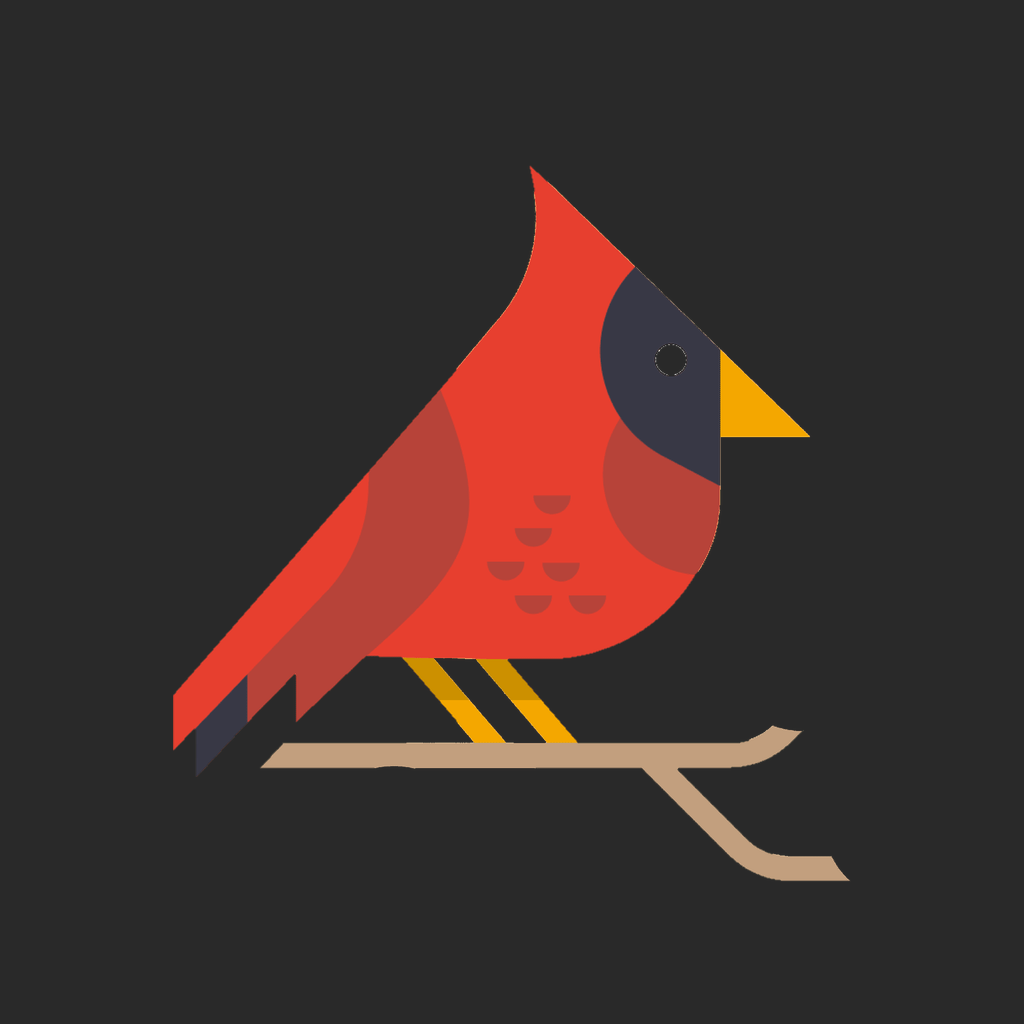
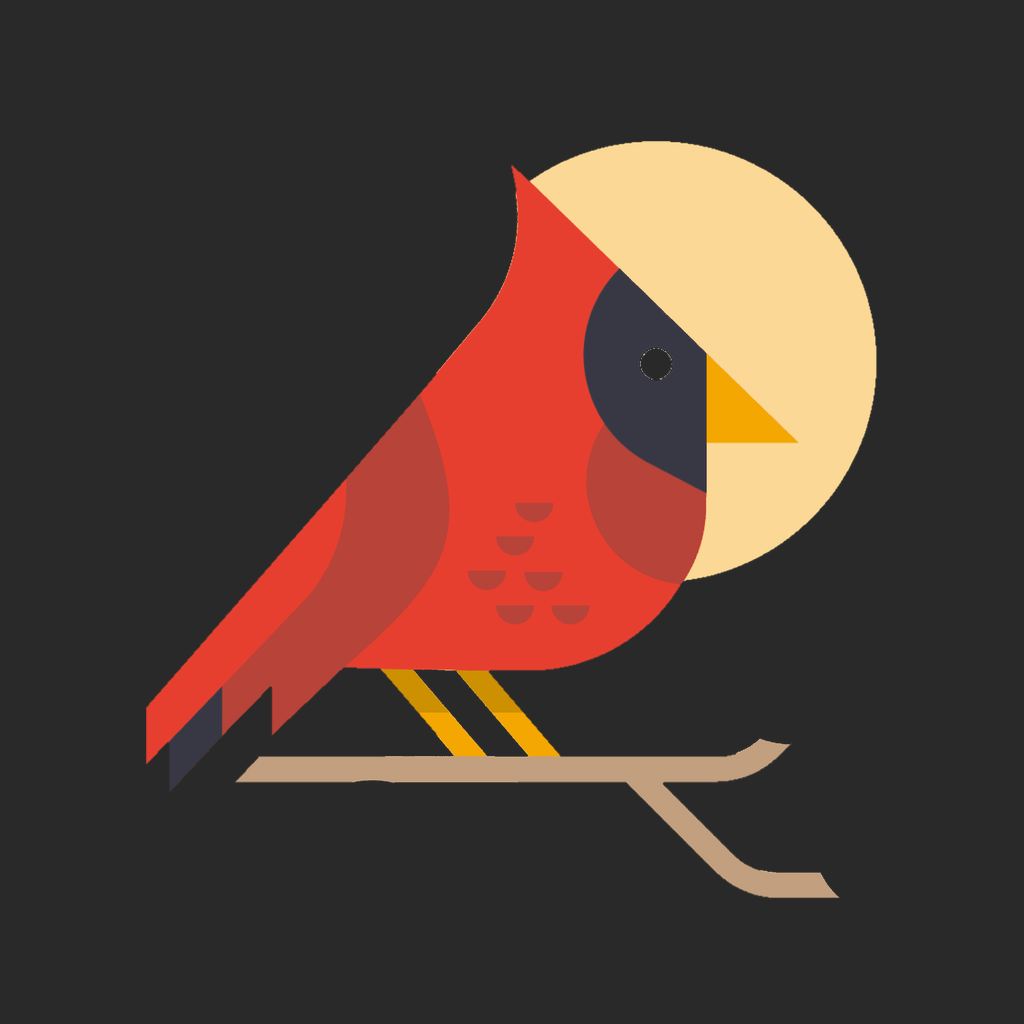
fix: put the sun back behind the cardinal's head
Without the sun the crest stood alone against the paper and read as a spike. The disc from the original illustration sits behind the head again; the leaves and blossoms stay out, so small sizes remain clear.

Changed region(s): [[0.125, 0.125, 0.875, 0.875]]

diff --git a/AGENTS.md b/AGENTS.md
@@ -148,7 +148,7 @@ string is the only breadcrumb the maintainer has when triaging.
 - **设计参考**: UI / CSS 抄不出来时去看 `~/www/weekly` 和 `~/www/tw93.github.io`, 那里有维护者已经满意的样式。不要凭空发挥。
 - **目标视觉风格**: macOS 26 风格的 sidebar (玻璃态、透明、SF Symbols 最新一代) 是长期方向, 不是经典 Big Sur 风格。
 - **不要再提议整套 macOS 26 / Liquid Glass 重设计**。一次实机改造 (侧栏换原生 `.sidebar` 半透明材质 + 选中态改强调色玻璃 pill + 图标整体迁 SF Symbols + 自绘 pill `ChromeToolbarButton`) 已被维护者否决, 原话"还不如之前好看, 不强求这个"。要打磨侧栏 / 按钮就在现有不透明设计上做小步增量: 间距、对齐、hover、focus、字重。不要整体换材质或换图标体系, 除非维护者在当前回合明确要求。
-- **App 图标 (维护者 2026-10-14 选定)**: `Resources/app.icon` 用 `miaoyan-light.png` / `miaoyan-dark.png` 两张烘焙好的 1024 整图, 红雀加树枝放在暖白 `#EFEFE2` 上, 深色外观换成中性深灰 `#292929`, 不开玻璃和半透明, 阴影 0.35, 和 Mole 的 `mole.icon` 同一写法。图形取自原插画 `Assets/43.png` (去掉太阳、叶子和小花), 43.png 保留是因为旧 release 正文引用它的 raw 地址。README、release 模板和内置指南的头像用 `Resources/logo.png`。官网 favicon 用同一张图。改图标前先读 `~/www/Kata/rules/icon.md`, 不要回到带太阳和叶子的完整插画, 小尺寸会糊。
+- **App 图标 (维护者 2026-10-14 选定)**: `Resources/app.icon` 用 `miaoyan-light.png` / `miaoyan-dark.png` 两张烘焙好的 1024 整图, 红雀加树枝放在暖白 `#EFEFE2` 上, 深色外观换成中性深灰 `#292929`, 不开玻璃和半透明, 阴影 0.35, 和 Mole 的 `mole.icon` 同一写法。图形取自原插画 `Assets/43.png`, 保留红雀、树枝和头后的太阳, 去掉叶子和小花 (只去太阳时尖冠孤零零戳在底色上, 被维护者判为太尖), 43.png 保留是因为旧 release 正文引用它的 raw 地址。README、release 模板和内置指南的头像用 `Resources/logo.png`。官网 favicon 用同一张图。改图标前先读 `~/www/Kata/rules/icon.md`, 不要加回叶子和小花, 小尺寸会糊; 也不要再去掉太阳。
 - **README 首屏 GIF 按语言分开是有意的**: `README_CN.md` 和 `README_TW.md` 用中文界面的 `newmiaoyan.gif`, 其余语言用英文界面的 `miaoyan.gif`, 审查和改稿时不要统一成一张 (维护者 2026-10-10)。
 - **cmd-数字快捷键已占满 0-5**, 不要冲突: 1 侧栏, 2 笔记列表, 3 Toggle Preview, 4 Toggle Presentation, 5 TOC, 0 Actual Size。`⌘\` 只给 Toggle Split View, 用户已经记住了, 不要改; Window 菜单的 Main Window 原先也绑 `⌘\`, 被分栏抢先从来触发不了, 2026-10-11 改为 `⌥⌘0`。新增前先 `grep 'keyEquivalent="N"' Resources/Localization/Base.lproj/Main.storyboard` 核对, 绑定只存在于 storyboard, 代码里没有 keyBindings 表。打字机滚动 / 链接相关另开模式或子开关即可。
 
